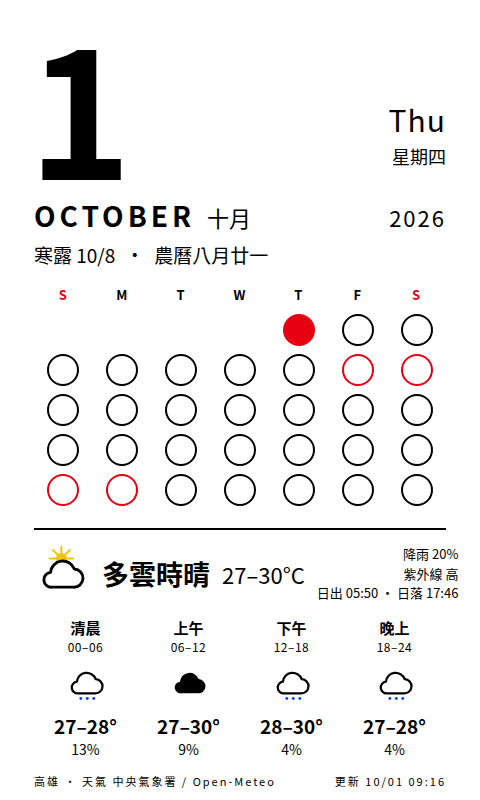
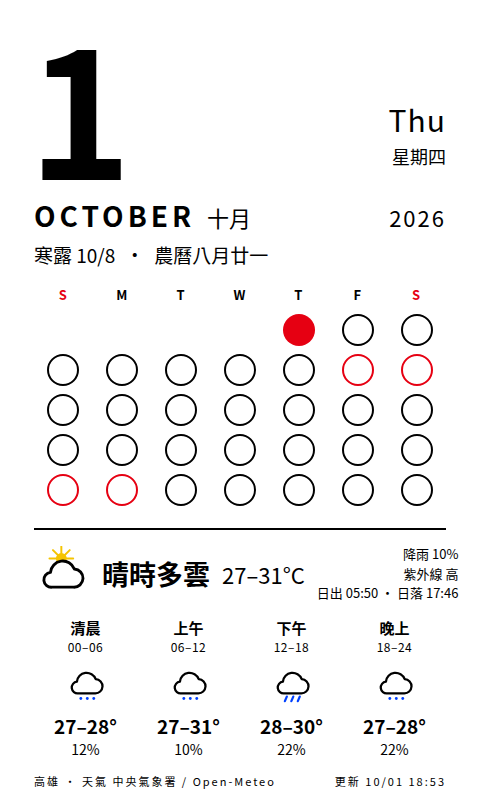
deploy: cf7d1051eb6821bc691ba0ade4beb12cdf9fe0ef

diff --git a/calendar.html b/calendar.html
@@ -54,9 +54,9 @@
   <div class="today"><span class="lunar">寒露 10/8</span><span>·</span><span class="lunar">農曆八月廿一</span></div>
   <div class="grid"><div class="h we">S</div><div class="h">M</div><div class="h">T</div><div class="h">W</div><div class="h">T</div><div class="h">F</div><div class="h we">S</div><div class="dot empty"></div><div class="dot empty"></div><div class="dot empty"></div><div class="dot empty"></div><div class="dot now" title="1"></div><div class="dot future" title="2"></div><div class="dot future" title="3"></div><div class="dot future" title="4"></div><div class="dot future" title="5"></div><div class="dot future" title="6"></div><div class="dot future" title="7"></div><div class="dot future" title="8"></div><div class="dot future hol" title="9"></div><div class="dot future hol" title="10"></div><div class="dot future" title="11"></div><div class="dot future" title="12"></div><div class="dot future" title="13"></div><div class="dot future" title="14"></div><div class="dot future" title="15"></div><div class="dot future" title="16"></div><div class="dot future" title="17"></div><div class="dot future" title="18"></div><div class="dot future" title="19"></div><div class="dot future" title="20"></div><div class="dot future" title="21"></div><div class="dot future" title="22"></div><div class="dot future" title="23"></div><div class="dot future" title="24"></div><div class="dot future hol" title="25"></div><div class="dot future hol" title="26"></div><div class="dot future" title="27"></div><div class="dot future" title="28"></div><div class="dot future" title="29"></div><div class="dot future" title="30"></div><div class="dot future" title="31"></div></div>
   <div class="wx"><div class="line">
-    <div class="wxhead"><svg viewBox="0 0 64 68" xmlns="http://www.w3.org/2000/svg"><g transform="translate(12 -4) scale(.6)"><circle cx="32" cy="32" r="11" fill="#f5c400"/><g stroke="#f5c400" stroke-width="4" stroke-linecap="round"><line x1="32" y1="32" x2="32" y2="8" transform="rotate(0 32 32)"/><line x1="32" y1="32" x2="32" y2="8" transform="rotate(45 32 32)"/><line x1="32" y1="32" x2="32" y2="8" transform="rotate(90 32 32)"/><line x1="32" y1="32" x2="32" y2="8" transform="rotate(135 32 32)"/><line x1="32" y1="32" x2="32" y2="8" transform="rotate(180 32 32)"/><line x1="32" y1="32" x2="32" y2="8" transform="rotate(225 32 32)"/><line x1="32" y1="32" x2="32" y2="8" transform="rotate(270 32 32)"/><line x1="32" y1="32" x2="32" y2="8" transform="rotate(315 32 32)"/></g></g><path d="M20 50h26a11 11 0 0 0 1-22 15 15 0 0 0-29 4 9 9 0 0 0 2 18z" fill="#fff" stroke="#000" stroke-width="3.5" stroke-linejoin="round"/></svg><span class="desc">多雲時晴</span><span class="temp">27–30°C</span>
-      <div class="meta">降雨 20%<br>紫外線 高<br>日出 05:50 · 日落 17:46</div></div>
-    <div class="slots"><div class="slot"><div class="n">清晨</div><div class="hrs">00–06</div><svg viewBox="0 0 64 68" xmlns="http://www.w3.org/2000/svg"><path d="M20 50h26a11 11 0 0 0 1-22 15 15 0 0 0-29 4 9 9 0 0 0 2 18z" fill="#fff" stroke="#000" stroke-width="3.5" stroke-linejoin="round"/><g fill="#0040ff"><circle cx="24" cy="58" r="2.2"/><circle cx="34" cy="58" r="2.2"/><circle cx="44" cy="58" r="2.2"/></g></svg><div class="t">27–28°</div><div class="p dry">13%</div></div><div class="slot"><div class="n">上午</div><div class="hrs">06–12</div><svg viewBox="0 0 64 68" xmlns="http://www.w3.org/2000/svg"><path d="M20 50h26a11 11 0 0 0 1-22 15 15 0 0 0-29 4 9 9 0 0 0 2 18z" fill="#000"/></svg><div class="t">27–30°</div><div class="p dry">9%</div></div><div class="slot"><div class="n">下午</div><div class="hrs">12–18</div><svg viewBox="0 0 64 68" xmlns="http://www.w3.org/2000/svg"><path d="M20 50h26a11 11 0 0 0 1-22 15 15 0 0 0-29 4 9 9 0 0 0 2 18z" fill="#fff" stroke="#000" stroke-width="3.5" stroke-linejoin="round"/><g fill="#0040ff"><circle cx="24" cy="58" r="2.2"/><circle cx="34" cy="58" r="2.2"/><circle cx="44" cy="58" r="2.2"/></g></svg><div class="t">28–30°</div><div class="p dry">4%</div></div><div class="slot"><div class="n">晚上</div><div class="hrs">18–24</div><svg viewBox="0 0 64 68" xmlns="http://www.w3.org/2000/svg"><path d="M20 50h26a11 11 0 0 0 1-22 15 15 0 0 0-29 4 9 9 0 0 0 2 18z" fill="#fff" stroke="#000" stroke-width="3.5" stroke-linejoin="round"/><g fill="#0040ff"><circle cx="24" cy="58" r="2.2"/><circle cx="34" cy="58" r="2.2"/><circle cx="44" cy="58" r="2.2"/></g></svg><div class="t">27–28°</div><div class="p dry">4%</div></div></div>
+    <div class="wxhead"><svg viewBox="0 0 64 68" xmlns="http://www.w3.org/2000/svg"><g transform="translate(12 -4) scale(.6)"><circle cx="32" cy="32" r="11" fill="#f5c400"/><g stroke="#f5c400" stroke-width="4" stroke-linecap="round"><line x1="32" y1="32" x2="32" y2="8" transform="rotate(0 32 32)"/><line x1="32" y1="32" x2="32" y2="8" transform="rotate(45 32 32)"/><line x1="32" y1="32" x2="32" y2="8" transform="rotate(90 32 32)"/><line x1="32" y1="32" x2="32" y2="8" transform="rotate(135 32 32)"/><line x1="32" y1="32" x2="32" y2="8" transform="rotate(180 32 32)"/><line x1="32" y1="32" x2="32" y2="8" transform="rotate(225 32 32)"/><line x1="32" y1="32" x2="32" y2="8" transform="rotate(270 32 32)"/><line x1="32" y1="32" x2="32" y2="8" transform="rotate(315 32 32)"/></g></g><path d="M20 50h26a11 11 0 0 0 1-22 15 15 0 0 0-29 4 9 9 0 0 0 2 18z" fill="#fff" stroke="#000" stroke-width="3.5" stroke-linejoin="round"/></svg><span class="desc">晴時多雲</span><span class="temp">27–31°C</span>
+      <div class="meta">降雨 10%<br>紫外線 高<br>日出 05:50 · 日落 17:46</div></div>
+    <div class="slots"><div class="slot"><div class="n">清晨</div><div class="hrs">00–06</div><svg viewBox="0 0 64 68" xmlns="http://www.w3.org/2000/svg"><path d="M20 50h26a11 11 0 0 0 1-22 15 15 0 0 0-29 4 9 9 0 0 0 2 18z" fill="#fff" stroke="#000" stroke-width="3.5" stroke-linejoin="round"/><g fill="#0040ff"><circle cx="24" cy="58" r="2.2"/><circle cx="34" cy="58" r="2.2"/><circle cx="44" cy="58" r="2.2"/></g></svg><div class="t">27–28°</div><div class="p dry">12%</div></div><div class="slot"><div class="n">上午</div><div class="hrs">06–12</div><svg viewBox="0 0 64 68" xmlns="http://www.w3.org/2000/svg"><path d="M20 50h26a11 11 0 0 0 1-22 15 15 0 0 0-29 4 9 9 0 0 0 2 18z" fill="#fff" stroke="#000" stroke-width="3.5" stroke-linejoin="round"/><g fill="#0040ff"><circle cx="24" cy="58" r="2.2"/><circle cx="34" cy="58" r="2.2"/><circle cx="44" cy="58" r="2.2"/></g></svg><div class="t">27–31°</div><div class="p dry">10%</div></div><div class="slot"><div class="n">下午</div><div class="hrs">12–18</div><svg viewBox="0 0 64 68" xmlns="http://www.w3.org/2000/svg"><path d="M20 50h26a11 11 0 0 0 1-22 15 15 0 0 0-29 4 9 9 0 0 0 2 18z" fill="#fff" stroke="#000" stroke-width="3.5" stroke-linejoin="round"/><g stroke="#0040ff" stroke-width="3.5" stroke-linecap="round"><line x1="24" y1="55" x2="21" y2="62"/><line x1="34" y1="55" x2="31" y2="62"/><line x1="44" y1="55" x2="41" y2="62"/></g></svg><div class="t">28–30°</div><div class="p dry">22%</div></div><div class="slot"><div class="n">晚上</div><div class="hrs">18–24</div><svg viewBox="0 0 64 68" xmlns="http://www.w3.org/2000/svg"><path d="M20 50h26a11 11 0 0 0 1-22 15 15 0 0 0-29 4 9 9 0 0 0 2 18z" fill="#fff" stroke="#000" stroke-width="3.5" stroke-linejoin="round"/><g fill="#0040ff"><circle cx="24" cy="58" r="2.2"/><circle cx="34" cy="58" r="2.2"/><circle cx="44" cy="58" r="2.2"/></g></svg><div class="t">27–28°</div><div class="p dry">22%</div></div></div>
   </div></div>
-  <div class="foot"><span>高雄 · 天氣 中央氣象署 / Open-Meteo</span><span>更新 10/01 09:16</span></div>
+  <div class="foot"><span>高雄 · 天氣 中央氣象署 / Open-Meteo</span><span>更新 10/01 18:53</span></div>
 </div></body></html>
